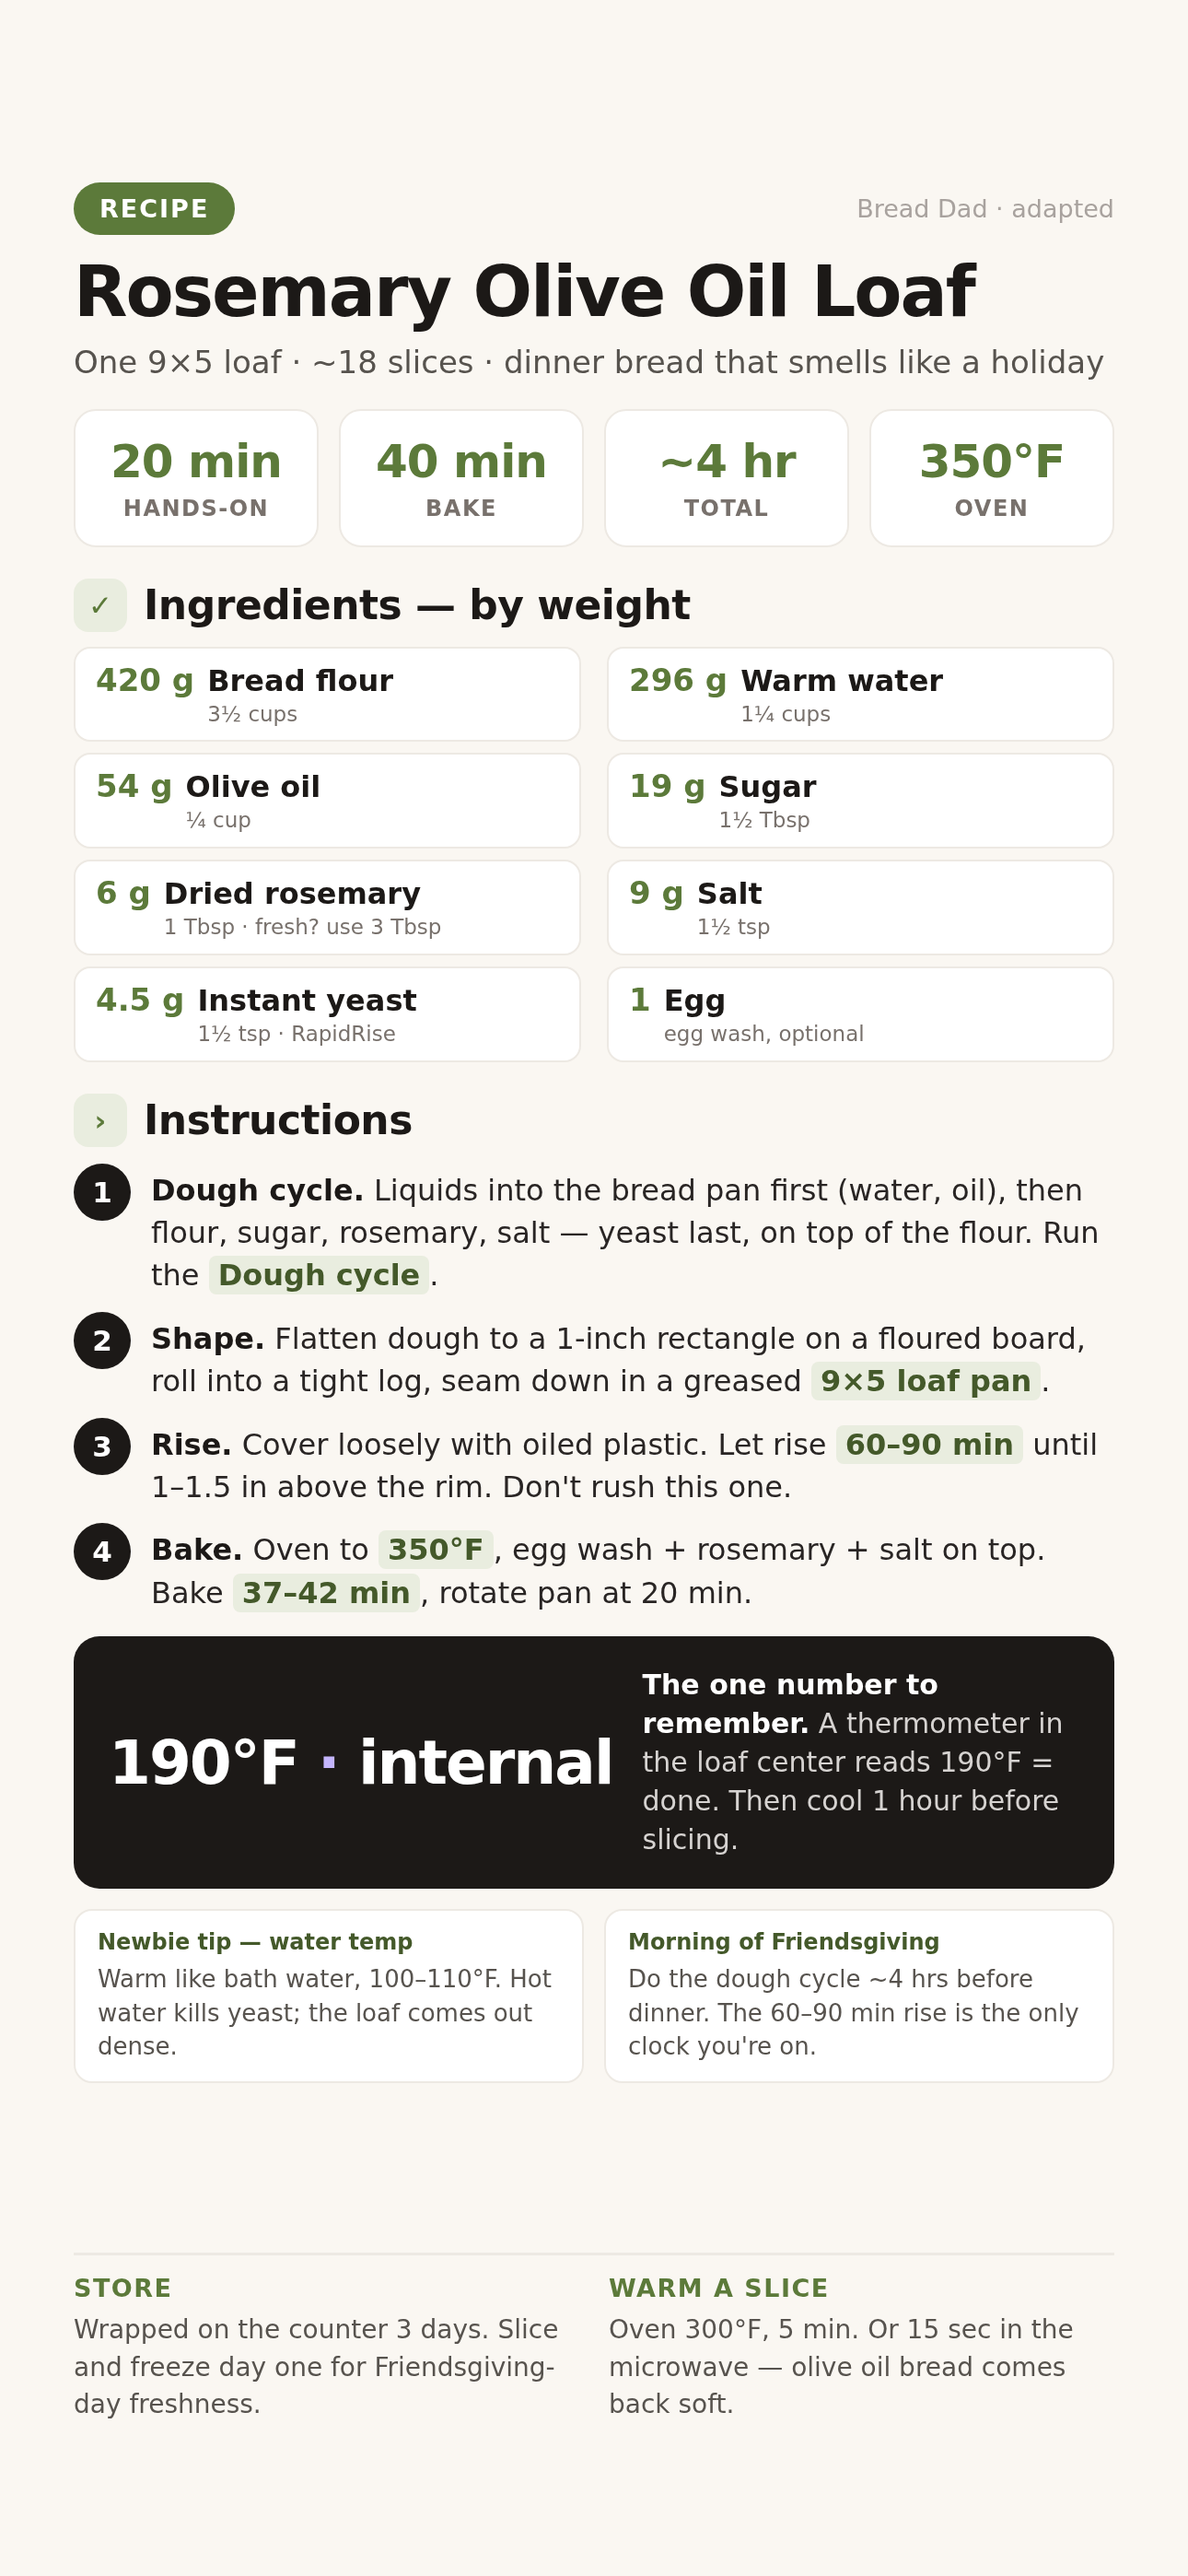
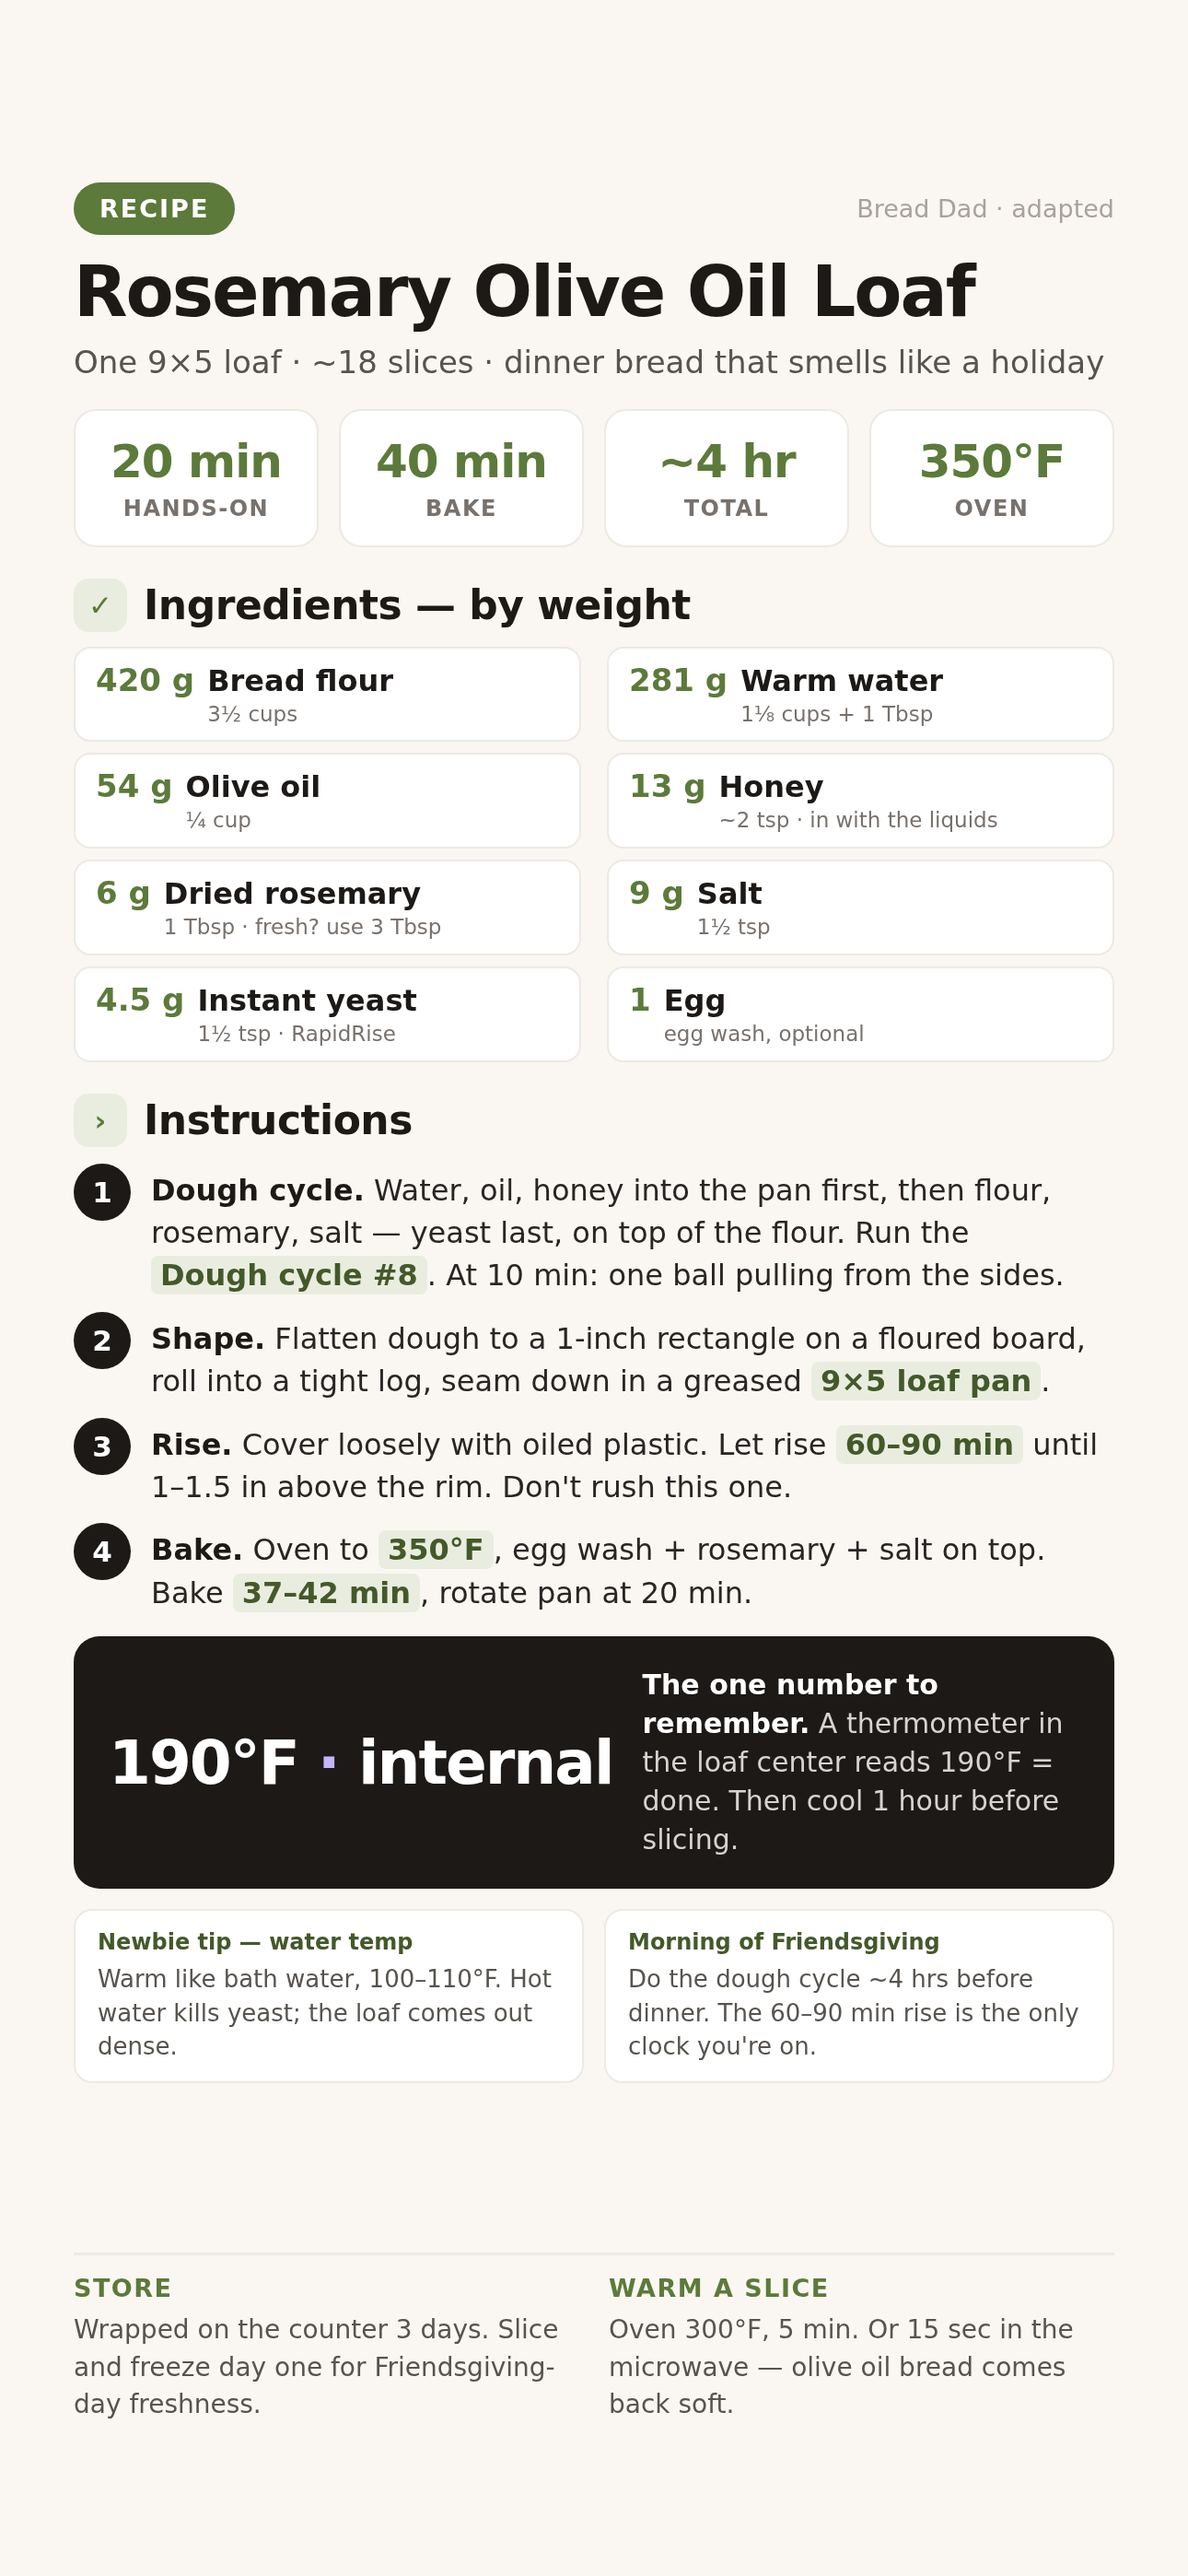
publish: rosemary-olive-oil-loaf honey version + rolls variant

Changed region(s): [[0.124, 0.4356, 0.8992, 0.4979], [0.6202, 0.28, 0.6822, 0.3423], [0.5581, 0.2489, 0.5891, 0.28]]

diff --git a/cookbook/rosemary-olive-oil-loaf/index.html b/cookbook/rosemary-olive-oil-loaf/index.html
@@ -182,15 +182,16 @@
         <p class="weightnote"><b>Weigh if you can.</b> Set the bowl on the scale, tare between ingredients, go by grams.</p>
         <ul class="list">
           <li><span>Bread flour</span><span class="amt"><span class="gram">420 g</span>3½ cups</span></li>
-          <li><span>Warm water (100–110°F)</span><span class="amt"><span class="gram">296 g</span>1¼ cups</span></li>
+          <li><span>Warm water (100–110°F)</span><span class="amt"><span class="gram">281 g</span>1⅛ cups + 1 Tbsp</span></li>
           <li><span>Olive oil</span><span class="amt"><span class="gram">54 g</span>¼ cup</span></li>
-          <li><span>Sugar</span><span class="amt"><span class="gram">19 g</span>1½ Tbsp</span></li>
+          <li><span>Honey</span><span class="amt"><span class="gram">13 g</span>~2 tsp</span></li>
           <li><span>Dried rosemary</span><span class="amt"><span class="gram">6 g</span>1 Tbsp</span></li>
           <li><span>Salt</span><span class="amt"><span class="gram">9 g</span>1½ tsp</span></li>
           <li><span>Instant yeast (RapidRise)</span><span class="amt"><span class="gram">4.5 g</span>1½ tsp</span></li>
           <li><span>Egg, for optional wash</span><span class="amt"><span class="gram">1</span>brushed on top</span></li>
         </ul>
         <div class="variant"><b>Using fresh rosemary?</b> Use 3 Tbsp chopped fresh instead of 1 Tbsp dried — fresh is much milder.</div>
+        <div class="variant"><b>Want rolls instead?</b> Same dough. Divide into 9 pieces (~90 g each), round into balls, arrange 3×3 in a greased 9×13 pan, rise until puffy, then bake at <b>375°F for 20–25 min</b> (190°F internal). Honey-butter dinner rolls.</div>
       </div>
       <div class="card">
         <h3>Equipment</h3>
@@ -213,13 +214,14 @@
     <ol class="steps">
       <li>
         <h4>Load the pan, liquids first</h4>
-        <p>Pour <code>296 g (1¼ cups)</code> warm water and <code>54 g (¼ cup)</code> olive oil into the bread pan. Add <code>420 g</code> flour, <code>19 g</code> sugar, <code>6 g</code> rosemary, and <code>9 g</code> salt. Put <code>4.5 g</code> yeast on last, right on top of the flour, so it stays dry until mixing starts.</p>
+        <p>Pour <code>281 g (1⅛ cups + 1 Tbsp)</code> warm water, <code>54 g (¼ cup)</code> olive oil, and <code>13 g (~2 tsp)</code> honey into the bread pan. Add <code>420 g</code> flour, <code>6 g</code> rosemary, and <code>9 g</code> salt. Put <code>4.5 g</code> yeast on last, right on top of the flour, so it stays dry until mixing starts. Your machine's Dough cycle is <b class="key">setting #8</b>.</p>
         <p class="stop"><b class="lab warn">Stop</b> <b>Water must be warm, not hot.</b> 100–110°F — like bath water. Hot water kills the yeast and the loaf comes out dense.</p>
       </li>
       <li>
-        <h4>Run the Dough cycle</h4>
-        <p>Seat the pan in the machine and start the <b class="key">Dough cycle</b>. It mixes, kneads, and gives the dough its first rise. When it beeps done, pull the pan out.</p>
-        <p class="expect"><b>What to expect:</b> a smooth, slightly tacky ball of dough, roughly doubled. It should spring back slowly when poked.</p>
+        <h4>Run the Dough cycle — with one checkpoint</h4>
+        <p>Seat the pan in the machine and start the <b class="key">Dough cycle (#8)</b>. It mixes, kneads, and gives the dough its first rise.</p>
+        <p class="flag"><b class="lab note">10-minute check</b> <b>Watch the first 10 minutes through the window.</b> A little loose and shaggy is normal at the start, but by ~10 min it should form one ball that pulls away from the pan sides. Still a wet mess filling the bottom? Add bread flour <b class="key">1 Tbsp at a time</b>, a couple of minutes between spoons (max ~40 g).</p>
+        <p class="expect"><b>What to expect:</b> a smooth, slightly tacky ball of dough, roughly doubled by cycle end. It should spring back slowly when poked.</p>
       </li>
     </ol>
   </div>
@@ -294,7 +296,7 @@
 <footer>
   <div class="wrap">
     <div class="rule"></div>
-    <p style="max-width:74ch"><b>Source:</b> <a href="https://breaddad.com/olive-oil-rosemary-bread-recipe/">Bread Dad — Olive Oil Rosemary Bread</a>, converted to grams and trimmed for a first-time baker. Bread-machine dough, oven-baked in a loaf pan; rosemary scaled to a savory but not medicinal 1 Tbsp dried.</p>
+    <p style="max-width:74ch"><b>Source:</b> <a href="https://breaddad.com/olive-oil-rosemary-bread-recipe/">Bread Dad — Olive Oil Rosemary Bread</a>, converted to grams and adapted: sugar swapped for 13 g honey with water reduced to 281 g, dough steps written around the Hamilton Beach 29982 (Dough = cycle 8), plus a 10-minute dough-consistency checkpoint added after a failed first bake. Oven-baked in a loaf pan; rosemary scaled to a savory but not medicinal 1 Tbsp dried.</p>
   </div>
 </footer>
 
